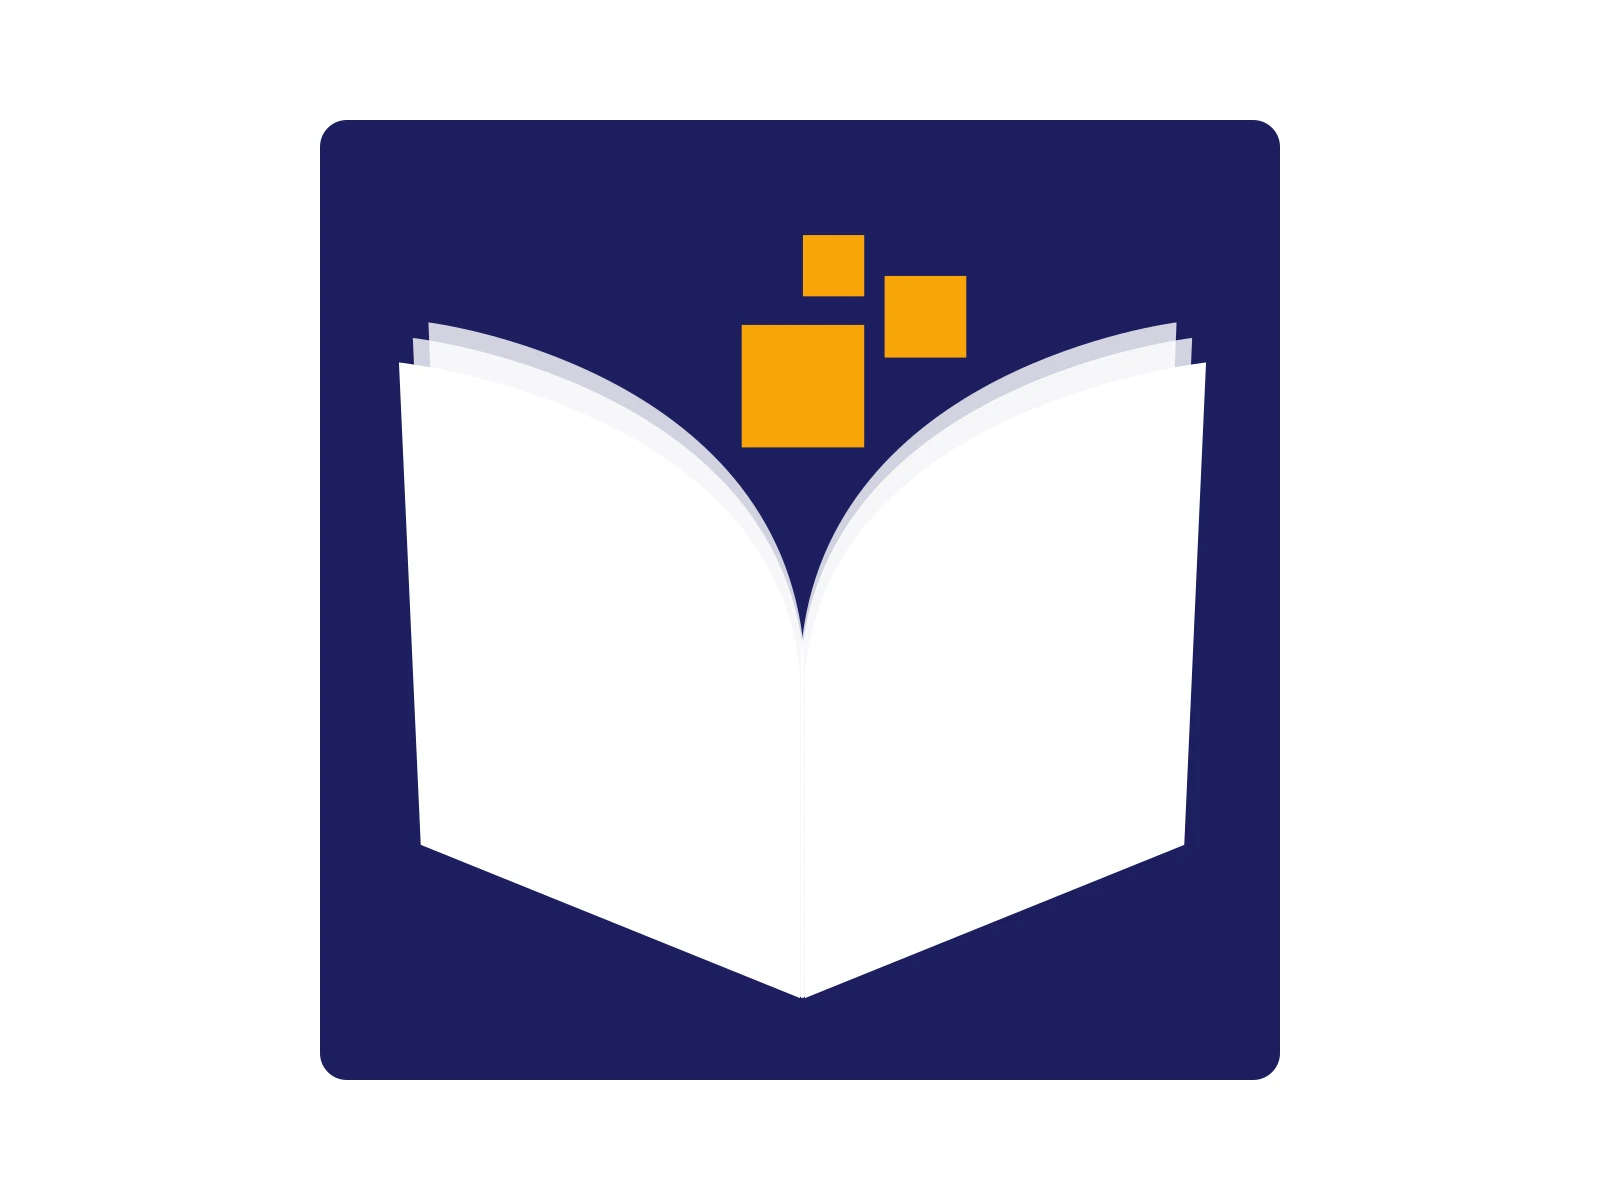
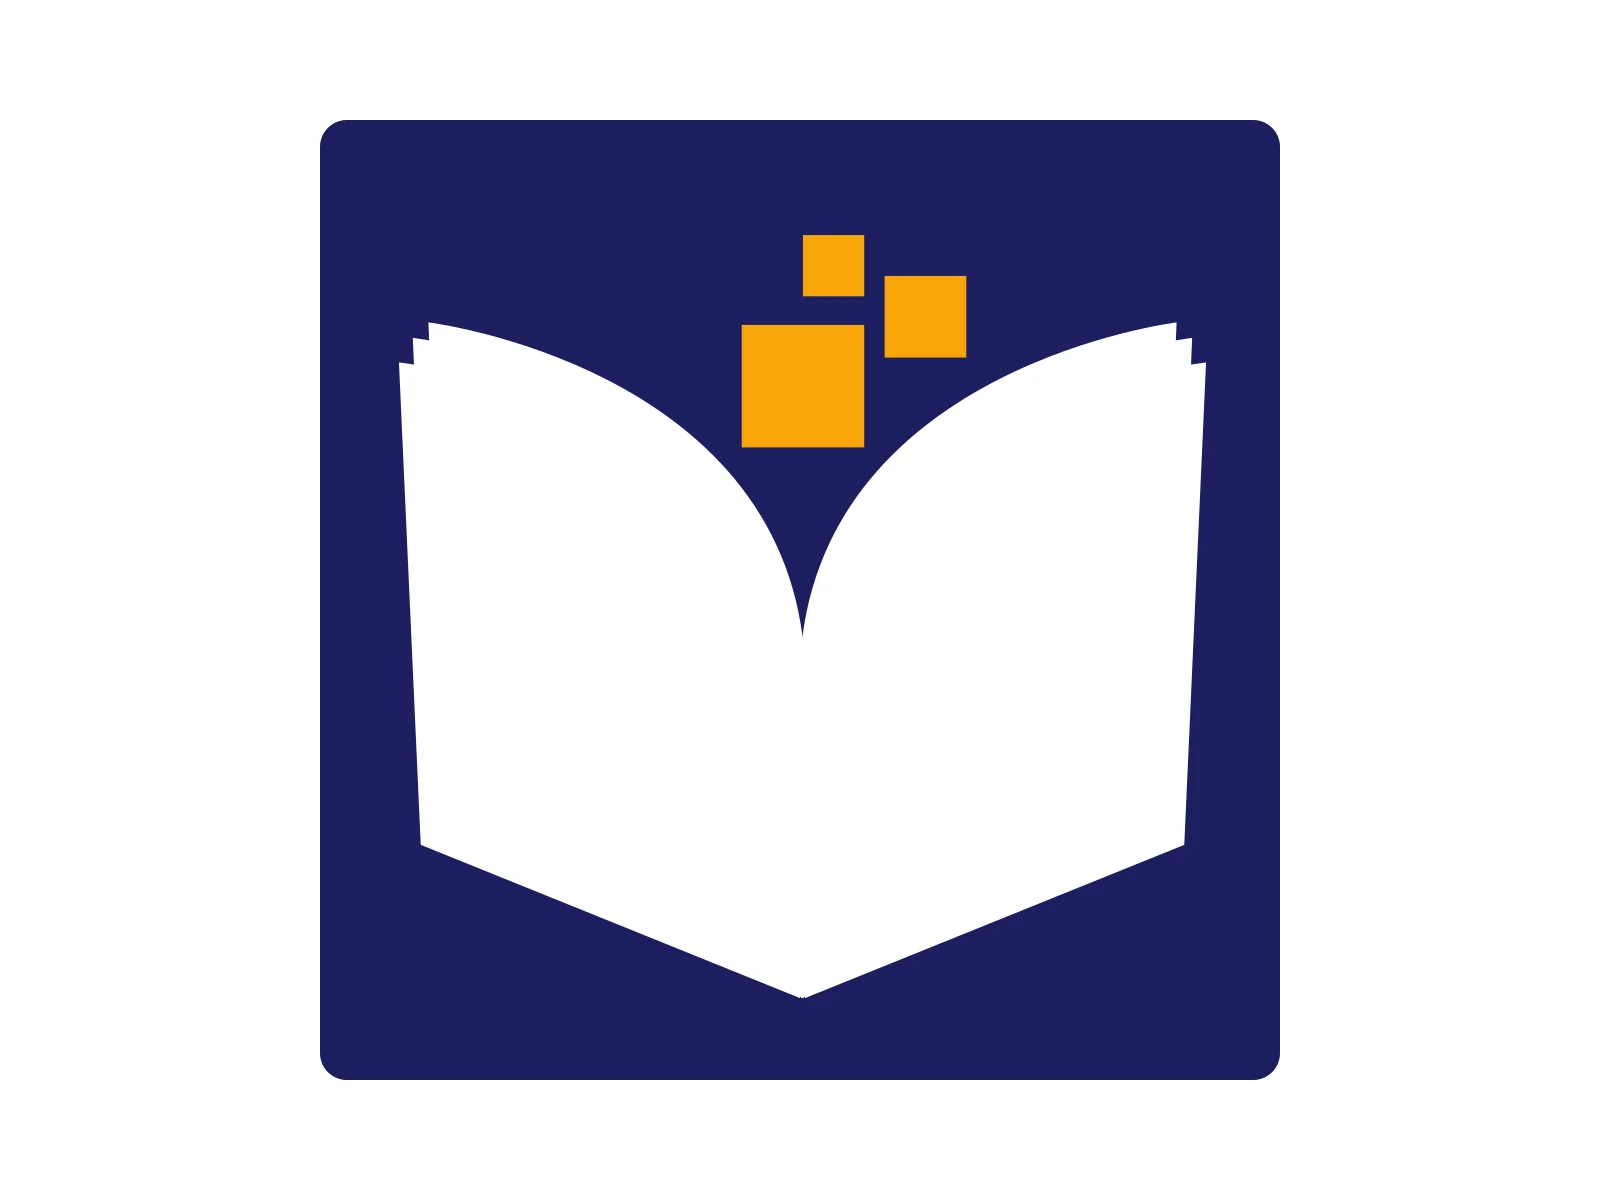
DigiSkills: the final is the flat art (no overlap, no opacity)
Jayson confirmed the final logo is the one without overlap and opacity:
the Sep 23 2026 DigiSkills.ai. The panels, cover and copy now draw and
describe that file; the June 24 version (back pages at 80%) is kept in
the sources note as history only. Also: no pronoun in the sources note.

diff --git a/scripts/digiskills-panels.py b/scripts/digiskills-panels.py
@@ -4,16 +4,17 @@ from Jayson's real files only. Run from the repo root:
 Needs pypdf, pycairo and Pillow.
 
 Sources, all under C:/dev/Devsign8 (read only):
-  04-Reference/Fonts, Mockups, Logos/Logos/DigiSkills-Logo.psd and
-    DigiSkillsApp-Logo.psd: each embeds the June 24 2026 Illustrator vector
-    as a smart object (the master mark with back pages at 80%; the app icon).
-  .../Logos/DigiSkills.ai: the Sep 23 2026 flat one-colour build.
+  04-Reference/Fonts, Mockups, Logos/Logos/DigiSkills.ai: the final art
+    (Sep 23 2026): flat, no opacity, no overlap, with the mark and the app
+    icon side by side on one artboard. (DigiSkills-Logo.psd and
+    DigiSkillsApp-Logo.psd embed the June 24 2026 version, whose back pages
+    were at 80% opacity; the final dropped that, so they are not drawn.)
   !Clients/!Old Clients/DigiSkills/DigiSkills/uploads/pasted-*.png: the three
     drafts pasted into the colour study on June 6 2026.
 Every coordinate drawn as an annotation is read from the vector, never
 estimated. See the SOURCES note in src/content/work/digiskills-logo.md.
 """
-import math, os, re, shutil, sys, tempfile
+import math, os, shutil, sys, tempfile
 import cairo
 from pypdf import PdfReader
 from PIL import Image
@@ -29,16 +30,6 @@ DRAFTS = DEV + '/!Clients/!Old Clients/DigiSkills/DigiSkills/uploads/'
 WORK = tempfile.mkdtemp(prefix='digiskills-')
 
 
-def embedded_pdf(psd, out):
-    """A smart object keeps its original vector as a PDF stream inside the PSD."""
-    b = open(psd, 'rb').read()
-    s = b.find(b'%PDF-')
-    e = [m.end() for m in re.finditer(rb'%%EOF\r?\n?', b) if m.start() > s][-1]
-    open(out, 'wb').write(b[s:e])
-
-
-embedded_pdf(LOGOS + 'DigiSkills-Logo.psd', WORK + '/DigiSkills-Logo_embedded.pdf')
-embedded_pdf(LOGOS + 'DigiSkillsApp-Logo.psd', WORK + '/DigiSkillsApp-Logo_embedded.pdf')
 shutil.copy(LOGOS + 'DigiSkills.ai', WORK + '/DigiSkills.ai')
 os.makedirs(WORK + '/drafts')
 for i, f in enumerate(['pasted-1780757189629-0.png', 'pasted-1780760611547-0.png',
@@ -52,12 +43,10 @@ INK = (0x15 / 255, 0x16 / 255, 0x2B / 255)       # the study's "Ink" #15162B
 GUIDE = (0x6B / 255, 0x6F / 255, 0xB0 / 255)     # muted indigo for construction lines
 FONT = 'Segoe UI'
 
-LOGO = 'DigiSkills-Logo_embedded.pdf'           # 430.585 x 407.06 pt
-APP = 'DigiSkillsApp-Logo_embedded.pdf'         # 430.554 x 430.554 pt
-SEP = 'DigiSkills.ai'
-SEP_MARK = (772.7547, 248.2186, 1203.3394, 655.2781)  # the indigo mark on the Sep artboard
-LOGO_BOX = (0, 0, 430.585, 407.06)
-APP_BOX = (0, 0, 430.554, 430.554)
+LOGO = APP = SEP = 'DigiSkills.ai'
+# The two pieces of art on the final artboard, in PDF points:
+LOGO_BOX = SEP_MARK = (772.7547, 248.2186, 1203.3394, 655.2781)  # the mark, 430.585 x 407.06
+APP_BOX = (196.851, 234.7707, 627.405, 665.3247)                 # the app icon, 430.554 square
 
 
 def hexrgb(h):

diff --git a/src/content/work/digiskills-logo.md b/src/content/work/digiskills-logo.md
@@ -16,11 +16,11 @@ cover: "../../assets/projects/DigiSkills-Cover.webp"
 coverAlt: "The DigiSkills app icon: a white open book on a deep indigo rounded square, with three amber squares rising from its pages like pixels."
 gallery:
   - src: "../../assets/projects/DigiSkills-Mark-Final.webp"
-    alt: "The final DigiSkills mark on a pale lilac ground: a deep indigo open book whose two back pages show as lighter edges, with three amber squares rising above the spine."
-    caption: "The final mark. The two back pages on each side sit at 80% opacity, so the book reads as a stack of pages, not a flat shape."
+    alt: "The final DigiSkills mark on a pale lilac ground: a solid deep indigo open book, stepped three pages deep at its outer corners, with three amber squares rising above the spine."
+    caption: "The final mark: two flat colours, no transparency and no overlap. The three small steps at each outer corner are all it needs to read as a stack of pages."
   - src: "../../assets/projects/DigiSkills-Drafts.webp"
-    alt: "Four versions of the book mark side by side. Draft 1 is a solid black book with outlined page edges and three black squares. Draft 2 is line art: a white book with black outlines and three black squares. Draft 3 is a solid indigo book with see-through indigo squares that overlap. The final is the indigo book with three separate amber squares."
-    caption: "Three drafts in one morning: solid, line, then colour with overlapping see-through pixels. The final keeps the shape and separate pixels of the first draft and the indigo of the third."
+    alt: "Four versions of the book mark side by side. Draft 1 is a solid black book with outlined page edges and three black squares. Draft 2 is line art: a white book with black outlines and three black squares. Draft 3 is an indigo book with see-through back pages and see-through indigo squares that overlap. The final is a flat indigo book with three separate amber squares."
+    caption: "Three drafts in one morning: solid, line, then colour with see-through, overlapping pixels. The final keeps the first draft's shape and separate pixels and the third draft's indigo, with no transparency."
   - src: "../../assets/projects/DigiSkills-Construction.webp"
     alt: "The final mark with construction lines: a dashed vertical spine axis through the largest square, a dashed baseline at the lowest point of the book, the three squares outlined and labelled 1, two thirds and a half, and dots on the outer corners of the three stacked left pages."
     caption: "Measured from the vector: the pixels shrink as they rise, at 1 : 2/3 : 1/2, the largest sits on the spine, and the right half is an exact mirror of the left."
@@ -44,7 +44,7 @@ constraints:
   - "Text and controls clear WCAG AA contrast"
   - "Free for everyone, without looking like charity"
 approach: "I drew the mark in Illustrator: an open book, three pages deep on each side, with three pixel squares lifting off it. One half is drawn and the other is its mirror. The pixels shrink as they rise, at 1 : 2/3 : 1/2, and the largest sits on the spine, so they read as lifting off the page. In one morning I tried it three ways: solid, as line art, and in indigo with see-through pixels that overlap. The final keeps the first draft's shape and separate pixels, takes the indigo from the third, and adds amber, chosen from five colour directions in a colour study."
-outcome: "The finished system has a full-colour mark with its back pages at 80% opacity for depth, a flat one-colour version, a white knockout, and an app icon with the white book on an indigo tile. Rendered straight from the vector, the icon keeps the book and its three pixels down to 24 px. I also designed the app's screens in a UI/UX study, and the app has been submitted to the App Store and Google Play."
+outcome: "The finished system is flat: two colours, no transparency and no overlap. It comes as a full-colour mark, a one-colour version, a white knockout, and an app icon with the white book on an indigo tile. Rendered straight from the vector, the icon keeps the book and its three pixels down to 24 px. I also designed the app's screens in a UI/UX study, and the app has been submitted to the App Store and Google Play."
 brief: "A free online-safety app needed a mark that reads on any phone."
 showcase: 1
 featured: false
@@ -52,23 +52,23 @@ order: 60
 ---
 <!-- SOURCES for the case study (2026-10-01). Every number and every
      process image is read from Jayson's own files; nothing is redrawn.
-     - Jayson, 2026-10-01: he drew the mark and did the colour study, icon
-       and UI/UX screens; pro bono for a friend who is a mobile app
+     - Jayson, 2026-10-01: Jayson drew the mark and did the colour study,
+       icon and UI/UX screens; pro bono for a friend who is a mobile app
        developer; free app in the Philippines; for children aged 7 to 11
        and students on low-end phones; submitted to the App Store and
        Google Play, not yet live. Update the outcome line when it launches.
-     - C:\dev\Devsign8\04-Reference\Fonts, Mockups, Logos\Logos\
-       DigiSkills-Logo.psd and DigiSkillsApp-Logo.psd: each embeds the
-       Illustrator vector as a smart object (Illustrator 30.0, author field
-       "Jayson Erboila", created 2026-06-24 1:08 and 1:09 PM). The master
-       mark: book #1C1E5E, back pages at 80% opacity, pixels #F7A50A at
-       65.35, 43.567 and 32.675 pt (1 : 2/3 : 1/2), the largest centred on
-       the spine (centre 215.54 pt against a spine at 215.29 pt), right half
-       an exact mirror of the left. App icon: a 430.55 pt tile in #1C1E5E
-       with 12 pt corners, the white book scaled to 84%.
-     - DigiSkills.ai (Illustrator 30.8, saved 2026-09-23): the same
-       geometry, both marks on one artboard, pages flat at 100%: the
-       one-colour build.
+     - THE FINAL ART (Jayson, 2026-10-01: "the final logo is the one without
+       overlap and opacity"): C:\dev\Devsign8\04-Reference\Fonts, Mockups,
+       Logos\Logos\DigiSkills.ai (Illustrator 30.8, saved 2026-09-23), the
+       mark and the app icon on one artboard, flat. Book #1C1E5E, pixels
+       #F7A50A at 65.35, 43.567 and 32.675 pt (1 : 2/3 : 1/2), the largest
+       centred on the spine (centre 215.54 pt against a spine at 215.29 pt),
+       right half an exact mirror of the left. App icon: a 430.55 pt tile in
+       #1C1E5E with 12 pt corners, the white book scaled to 84%.
+     - EARLIER: DigiSkills-Logo.psd and DigiSkillsApp-Logo.psd (same folder)
+       embed the June 24 2026 vectors as smart objects (Illustrator 30.0,
+       author field "Jayson Erboila"): the same geometry with the back pages
+       at 80% opacity, which the final dropped.
      - The three drafts: !Clients\!Old Clients\DigiSkills\DigiSkills\
        uploads\pasted-*.png, pasted into the colour study on 2026-06-06 at
        10:46, 11:43 and 12:15. Draft 3's overlapping squares did not make
@@ -76,5 +76,5 @@ order: 60
        that folder are the study's recolours of draft 3, not the final art.
      - "DigiSkills Logo & Color Study.html": the five directions and their
        hex codes (the panel shows each pair's deep tone on the book).
-     - Panels generated by a script from those files (session scratchpad
-       digi/panels.py, 2026-10-01), on the study's #F6F6FB ground. -->
+     - Panels and cover are generated from those files by
+       scripts/digiskills-panels.py, on the study's #F6F6FB ground. -->
